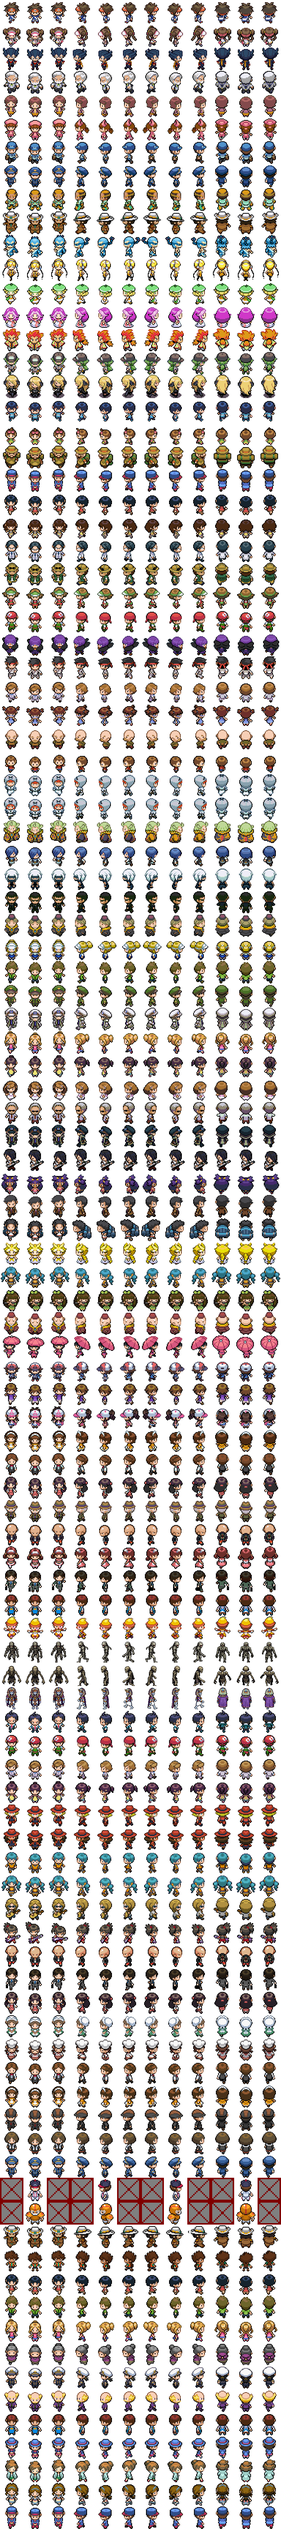
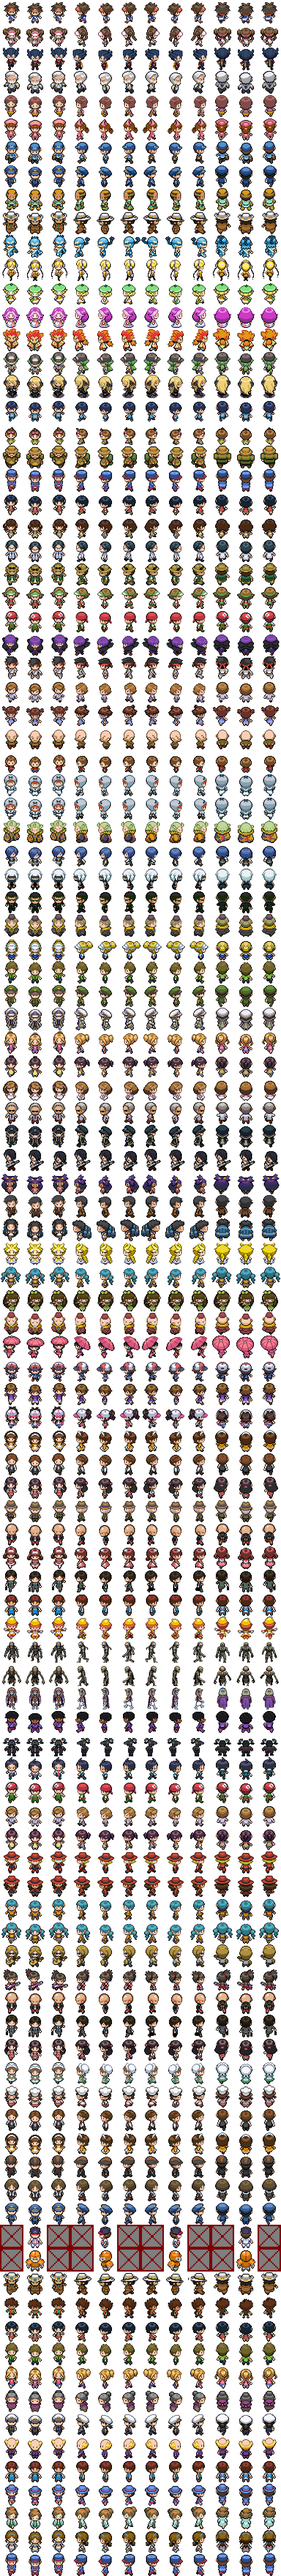
feat(odyssee): sprite sur mesure de Maitre Mamadou et mascotte bouc noir en veste en cuir du Dojo

diff --git a/odyssee/js/data/sprites.js b/odyssee/js/data/sprites.js
@@ -1,2 +1,2 @@
 // Généré par tools/odyssee-sprites.py — ne pas modifier à la main.
-export const SPRITES = {"crea":["capyousse","capyflore","capysaule","mechelet","ciroulet","lustrelle","narvi","narvalier","narvaillant","piouf","piouffon","plumorage","grignotin","ronchonnet","chouillon","hulumiere","larvoile","cocoreille","vitrailune","bourdonnet","champinou","champitron","cerfantome","noctaile","noctailor","galetin","rocrabe","cristaupe","bulotin","bulotide","croabulle","croamonde","crevitonne","gerbizz","gerboltz","ampoulet","tricotine","corolline","songebelle","revelaine","tisonnard","brasieraud","sombrecaille","nocturmine","frimousse","morsegivre","boulonnet","rouagant","draquelin","draconfle","cieldrake","odyssor","lutinelle","feerielle","pugnaton","poingtonnerre","spectrille","spectrelune","sablopode","dunosaure"],"chars":{"w":64,"h":64,"d":2,"rows":{"player_m":0,"player_f":1,"theo":2,"saule":3,"maman":4,"nurse":5,"vendeur":6,"garde":7,"hector":8,"basalte":9,"marine":10,"volta":11,"flora":12,"sibylle":13,"pyros":14,"drakos":15,"celestine":16,"gamin":17,"fillette":18,"montagnard":19,"marin":20,"topdresseur":21,"topdresseuse":22,"scientifique":23,"pecheur":24,"insectomane":25,"randonneuse":26,"medium":27,"karateka":28,"habitant":29,"habitante":30,"vieil_homme":31,"enfant":32,"brume":33,"brume_f":34,"sylas":35,"ariane":36,"nox":37,"voleur":38,"pretre":39,"kimono":40,"jardinier":41,"facteur":42,"capitaine":43,"lucie":44,"fillette2":45,"dame":46,"savant":47,"eclipse_m":48,"eclipse_f":49,"nyx":50,"erebe":51,"nocturne":52,"lumen":53,"frimas":54,"spectrel":55,"brutus":56,"ombrelle":57,"base_m":58,"pierre":59,"base_f":60,"margot":61,"aurele":62,"morgane":63,"gaspard":64,"ferdinand":65,"lilas":66,"corbin":67,"croupier":68,"copieur":69,"momie":70,"goule":71,"pharaon":72}},"portraits":["hector","basalte","marine","volta","flora","sibylle","pyros","drakos","celestine","saule","theo","gamin","fillette","montagnard","marin","topdresseur","topdresseuse","scientifique","pecheur","insectomane","randonneuse","medium","karateka","habitant","habitante"],"items":["secateur-sylvestre","harnais-flottant","sifflet-celeste","poke-ball","great-ball","ultra-ball","potion","super-potion","hyper-potion","max-potion","full-heal","revive","antidote","paralyze-heal","awakening","burn-heal","ice-heal","full-restore","escape-rope","repel","super-repel","max-repel","rare-candy","fire-stone","water-stone","thunder-stone","leaf-stone","moon-stone","sun-stone","oran-berry","ether","elixir","bag","dex","town-map","wallet","notebook","letter","gift"],"nature":{"tree":[47,48,2],"tree2":[47,48,2],"pine":[43,60,2],"snowpine":[43,61,2],"deadtree":[39,57,2],"palm":[49,56,2],"bush":[27,24,2],"rock":[30,28,2],"caverock":[32,29,2],"stalag":[26,44,2],"tuft":[32,40,2],"tuft1":[36,40,2],"darktuft":[32,40,2],"flowers_r":[27,26,2],"flowers_y":[27,26,2],"flowers_w":[27,26,2],"sign":[26,34,2],"fence":[64,48,2],"lamp":[14,48,2],"mailbox":[23,35,2],"pot":[18,32,2],"itemball":[15,15,2],"bang":[14,16],"statue":[26,43,2],"tree3":[47,48,2],"crackrock":[32,28,2],"cuttree":[15,32,2],"snowtuft":[32,40,2],"gymstatue":[46,82,2],"tuft0":[36,40,2],"tuft2":[36,40,2],"tuft3":[36,40,2],"darktuft0":[36,40,2],"darktuft1":[36,40,2],"darktuft2":[36,40,2],"darktuft3":[36,40,2],"snowtuft0":[36,40,2],"snowtuft1":[36,40,2],"snowtuft2":[36,40,2],"grassfront":[32,28,2],"grassfront2":[32,28,2],"darkfront":[32,28,2],"darkfront2":[32,28,2],"snowfront":[32,28,2],"snowfront2":[32,28,2],"fence_v":[24,104,2],"fence_v0":[24,104,2],"velo_s":[28,42,2],"velo_w":[38,30,2],"velo_e":[38,30,2],"velo_n":[24,37,2],"pic_terre_0":[32,29,1.6],"pic_terre_1":[32,29,1.6],"pic_terre_2":[31,31,1.6],"cone_terre_0":[15,24,1.5],"cone_terre_1":[16,24,1.5],"cone_terre_2":[16,24,1.5],"pic_montagne_0":[32,29,1.6],"pic_montagne_1":[32,29,1.6],"pic_montagne_2":[31,31,1.6],"cone_montagne_0":[15,24,1.5],"cone_montagne_1":[16,24,1.5],"cone_montagne_2":[16,24,1.5],"pic_mer_0":[32,29,1.6],"pic_mer_1":[32,29,1.6],"pic_mer_2":[31,31,1.6],"cone_mer_0":[15,24,1.5],"cone_mer_1":[16,24,1.5],"cone_mer_2":[16,24,1.5],"pic_magma_0":[32,29,1.6],"pic_magma_1":[32,29,1.6],"pic_magma_2":[31,31,1.6],"cone_magma_0":[15,24,1.5],"cone_magma_1":[16,24,1.5],"cone_magma_2":[16,24,1.5],"pic_glace_0":[32,29,1.6],"pic_glace_1":[32,29,1.6],"pic_glace_2":[31,31,1.6],"cone_glace_0":[15,24,1.5],"cone_glace_1":[16,24,1.5],"cone_glace_2":[16,24,1.5],"pic_lune_0":[32,29,1.6],"pic_lune_1":[32,29,1.6],"pic_lune_2":[31,31,1.6],"cone_lune_0":[15,24,1.5],"cone_lune_1":[16,24,1.5],"cone_lune_2":[16,24,1.5]},"mobilier":{"healer":[41,40,2],"pc":[35,39,2],"books":[34,40,2],"tv":[26,31,2],"bed":[26,39,2],"table":[24,28,2],"plant":[25,40,2],"gymstatue":[46,82,2],"shelf":[34,39,2],"counterseg":[34,23,2],"chair":[16,32,2],"sofa":[40,26,2],"fridge":[21,40,2],"kitchen":[40,27,2],"clock":[19,40,2],"painting":[25,22,2],"boxes":[33,30,2],"labmachine":[25,40,2],"startertable":[41,28,2],"bench":[39,22,2],"trash":[17,22,2],"vase":[16,25,2],"fireplace":[35,40,2],"rug":[37,18,2],"armoire":[40,60,2]},"sol":["grass0","grass1","grass2","grass3","tall0","tall1","forest0","forest1","path","sand","pave","ash0","ash1","snow0","snow1","cave","water0","water1","water2","water3","deep","flowerR","flowerY","flowerW","ledge","ledgeE","ledgeW","bridge","stairs","cavestairs","mat","matgreen","cliff","cliffplain","cavewall","cavetop","wall_in","wall_center","wall_mart","wall_gym","wall_league","walltop","floor_wood","floor_center","floor_mart","floor_lab","floor_league","counter","floor_gymBug","floor_gymRock","floor_gymWater","floor_gymElec","floor_gymGrass","floor_gymPsy","floor_gymFire","floor_gymDragon","counterfront","martfront","shelf","roof_flat","lava0","lava1","grass4","grass5","darktall0","darktall1","snowtall0","snowtall1"],"facades":["arene","base","boutique","centre","chalet","grotte","labo","ligue","maison","mirage","musee","pagode","pecheur","phare","port","dojo"],"natureV2":true,"dresseurs":["player_m","player_f","theo","garde","hector","basalte","marine","volta","flora","sibylle","pyros","drakos","celestine","vieil_homme","enfant","brume","brume_f","sylas","ariane","nox","voleur","pretre","kimono","brutus","ombrelle","spectrel","frimas","nocturne","eclipse_f","eclipse_m","erebe","nyx","margot","aurele","morgane","gaspard","ferdinand","lilas","corbin","copieur","momie","goule","pharaon","pierre"],"sol32":["snow0","snow1","snow2","snow3","ash0","ash1","gravel0","gravel1","path0","path1","sand0","sand1","water0","water1","water2","water3","pave0","pave1","grass0","grass1","deep0","deep1","lava0","lava1","grass2","flowerW","flowerR","field","forest0","forest1","leaves0","leaves1","cliffG","cliffG2","cliffGstairs","cliffG3","cliffR","cliffR2","cliffRstairs","cliffR3","cliffS","cliffS2","cliffSstairs","cliffS3","stairs","stairs2","bridgeEW","bridgeEW2","bridgeNS","bridgeNS2","dock0","dock1","dockEnd0","dockEnd1","floor_wood","floor_wood2","floor_beige","floor_pink","floor_pink2","floor_blue","floor_blue2","floor_round","floor_dark","floor_grate","floor_marble","floor_marble2","carpetL","carpet","carpetR","carpet2","floor_metal","floor_metal2","floor_grate2","floor_hazard","cave0","cave1","cavepuddle","ice","crystal","floor_white","floor_stone","floor_dark2","floor_glyph","floor_glyph2","floor_sand","tatami","ledge","ledgeW","ledgeE","ladder","hole","waterrock","whirl","crackrock"],"herbes":{"prairie":["a","b","bl","bot","br","c","in_ne","in_nw","in_se","in_sw","l","r","t","tl","tr"],"bois":["a","b","bl","bot","br","c","in_ne","in_nw","in_se","in_sw","l","r","t","tl","tr"],"neige":["a","b","bl","bot","br","c","in_ne","in_nw","in_se","in_sw","l","r","t","tl","tr"]},"hgss":{"mer":[16,8],"rivage":[32,8],"vague":[16,4],"fleur_r":[16,4],"fleur_y":[16,4],"fleur_b":[16,4],"fleur_p":[16,4],"fleur_o":[16,3],"fleur_w":[16,3],"rocher_mer":[32,6]},"deco":{"arbre_automne":[24,29,1],"banc":[24,17,1],"bateau":[48,20,1],"borne":[12,14,1],"bouee":[12,10,1],"brasero":[14,30,1],"butte":[16,13,1],"caisse":[14,17,1],"caisses":[16,29,1],"cerisier":[24,32,1],"cloche":[32,30,1],"colonne":[12,41,1],"console":[32,28,1],"corde":[16,11,1],"coussin":[16,14,1],"cristal":[16,28,1],"cuve":[16,37,1],"ecran_carte":[32,27,1],"erable":[24,31,1],"fontaine":[40,31,1],"fossile":[32,25,1],"gargouille":[12,27,1],"lampe_phare":[24,32,1],"lanterne":[12,25,1],"livres":[16,20,1],"machine_labo":[32,34,1],"panneau_bois":[16,15,1],"parasol":[24,25,1],"pilier_ball":[12,32,1],"rocher_grand":[20,19,1],"sanctuaire":[32,37,1],"squelette":[64,31,1],"statue_dragon":[20,39,1],"stele":[12,27,1],"table_balls":[32,19,1],"telescope":[16,26,1],"tonneau":[12,16,1],"torii":[48,38,1],"trone":[32,39,1]},"carte":["arbre_o","arbre_v","arbres_o","remous","puits","grotte","grotte_p","grotte_m","cascade","colline","montagne"],"suiveurs":{"w":64,"h":64,"d":2,"rows":{"1":0,"2":1,"3":2,"4":3,"5":4,"6":5,"7":6,"8":7,"9":8,"152":9,"153":10,"154":11,"155":12,"156":13,"157":14,"158":15,"159":16,"160":17,"25":18,"133":19,"74":20,"66":21,"54":22,"16":23,"19":24,"10":25,"143":26,"37":27,"43":28,"50":29,"52":30,"60":31,"1001":32,"1002":33,"1003":34,"1004":35,"1005":36,"1006":37,"1007":38,"1008":39,"1009":40}}};
+export const SPRITES = {"crea":["capyousse","capyflore","capysaule","mechelet","ciroulet","lustrelle","narvi","narvalier","narvaillant","piouf","piouffon","plumorage","grignotin","ronchonnet","chouillon","hulumiere","larvoile","cocoreille","vitrailune","bourdonnet","champinou","champitron","cerfantome","noctaile","noctailor","galetin","rocrabe","cristaupe","bulotin","bulotide","croabulle","croamonde","crevitonne","gerbizz","gerboltz","ampoulet","tricotine","corolline","songebelle","revelaine","tisonnard","brasieraud","sombrecaille","nocturmine","frimousse","morsegivre","boulonnet","rouagant","draquelin","draconfle","cieldrake","odyssor","lutinelle","feerielle","pugnaton","poingtonnerre","spectrille","spectrelune","sablopode","dunosaure"],"chars":{"w":64,"h":64,"d":2,"rows":{"player_m":0,"player_f":1,"theo":2,"saule":3,"maman":4,"nurse":5,"vendeur":6,"garde":7,"hector":8,"basalte":9,"marine":10,"volta":11,"flora":12,"sibylle":13,"pyros":14,"drakos":15,"celestine":16,"gamin":17,"fillette":18,"montagnard":19,"marin":20,"topdresseur":21,"topdresseuse":22,"scientifique":23,"pecheur":24,"insectomane":25,"randonneuse":26,"medium":27,"karateka":28,"habitant":29,"habitante":30,"vieil_homme":31,"enfant":32,"brume":33,"brume_f":34,"sylas":35,"ariane":36,"nox":37,"voleur":38,"pretre":39,"kimono":40,"jardinier":41,"facteur":42,"capitaine":43,"lucie":44,"fillette2":45,"dame":46,"savant":47,"eclipse_m":48,"eclipse_f":49,"nyx":50,"erebe":51,"nocturne":52,"lumen":53,"frimas":54,"spectrel":55,"brutus":56,"ombrelle":57,"base_m":58,"pierre":59,"base_f":60,"margot":61,"aurele":62,"morgane":63,"gaspard":64,"ferdinand":65,"lilas":66,"corbin":67,"croupier":68,"copieur":69,"momie":70,"goule":71,"pharaon":72,"mamadou":73,"bouc":74}},"portraits":["hector","basalte","marine","volta","flora","sibylle","pyros","drakos","celestine","saule","theo","gamin","fillette","montagnard","marin","topdresseur","topdresseuse","scientifique","pecheur","insectomane","randonneuse","medium","karateka","habitant","habitante"],"items":["secateur-sylvestre","harnais-flottant","sifflet-celeste","poke-ball","great-ball","ultra-ball","potion","super-potion","hyper-potion","max-potion","full-heal","revive","antidote","paralyze-heal","awakening","burn-heal","ice-heal","full-restore","escape-rope","repel","super-repel","max-repel","rare-candy","fire-stone","water-stone","thunder-stone","leaf-stone","moon-stone","sun-stone","oran-berry","ether","elixir","bag","dex","town-map","wallet","notebook","letter","gift"],"nature":{"tree":[47,48,2],"tree2":[47,48,2],"pine":[43,60,2],"snowpine":[43,61,2],"deadtree":[39,57,2],"palm":[49,56,2],"bush":[27,24,2],"rock":[30,28,2],"caverock":[32,29,2],"stalag":[26,44,2],"tuft":[32,40,2],"tuft1":[36,40,2],"darktuft":[32,40,2],"flowers_r":[27,26,2],"flowers_y":[27,26,2],"flowers_w":[27,26,2],"sign":[26,34,2],"fence":[64,48,2],"lamp":[14,48,2],"mailbox":[23,35,2],"pot":[18,32,2],"itemball":[15,15,2],"bang":[14,16],"statue":[26,43,2],"tree3":[47,48,2],"crackrock":[32,28,2],"cuttree":[15,32,2],"snowtuft":[32,40,2],"gymstatue":[46,82,2],"tuft0":[36,40,2],"tuft2":[36,40,2],"tuft3":[36,40,2],"darktuft0":[36,40,2],"darktuft1":[36,40,2],"darktuft2":[36,40,2],"darktuft3":[36,40,2],"snowtuft0":[36,40,2],"snowtuft1":[36,40,2],"snowtuft2":[36,40,2],"grassfront":[32,28,2],"grassfront2":[32,28,2],"darkfront":[32,28,2],"darkfront2":[32,28,2],"snowfront":[32,28,2],"snowfront2":[32,28,2],"fence_v":[24,104,2],"fence_v0":[24,104,2],"velo_s":[28,42,2],"velo_w":[38,30,2],"velo_e":[38,30,2],"velo_n":[24,37,2],"pic_terre_0":[32,29,1.6],"pic_terre_1":[32,29,1.6],"pic_terre_2":[31,31,1.6],"cone_terre_0":[15,24,1.5],"cone_terre_1":[16,24,1.5],"cone_terre_2":[16,24,1.5],"pic_montagne_0":[32,29,1.6],"pic_montagne_1":[32,29,1.6],"pic_montagne_2":[31,31,1.6],"cone_montagne_0":[15,24,1.5],"cone_montagne_1":[16,24,1.5],"cone_montagne_2":[16,24,1.5],"pic_mer_0":[32,29,1.6],"pic_mer_1":[32,29,1.6],"pic_mer_2":[31,31,1.6],"cone_mer_0":[15,24,1.5],"cone_mer_1":[16,24,1.5],"cone_mer_2":[16,24,1.5],"pic_magma_0":[32,29,1.6],"pic_magma_1":[32,29,1.6],"pic_magma_2":[31,31,1.6],"cone_magma_0":[15,24,1.5],"cone_magma_1":[16,24,1.5],"cone_magma_2":[16,24,1.5],"pic_glace_0":[32,29,1.6],"pic_glace_1":[32,29,1.6],"pic_glace_2":[31,31,1.6],"cone_glace_0":[15,24,1.5],"cone_glace_1":[16,24,1.5],"cone_glace_2":[16,24,1.5],"pic_lune_0":[32,29,1.6],"pic_lune_1":[32,29,1.6],"pic_lune_2":[31,31,1.6],"cone_lune_0":[15,24,1.5],"cone_lune_1":[16,24,1.5],"cone_lune_2":[16,24,1.5]},"mobilier":{"healer":[41,40,2],"pc":[35,39,2],"books":[34,40,2],"tv":[26,31,2],"bed":[26,39,2],"table":[24,28,2],"plant":[25,40,2],"gymstatue":[46,82,2],"shelf":[34,39,2],"counterseg":[34,23,2],"chair":[16,32,2],"sofa":[40,26,2],"fridge":[21,40,2],"kitchen":[40,27,2],"clock":[19,40,2],"painting":[25,22,2],"boxes":[33,30,2],"labmachine":[25,40,2],"startertable":[41,28,2],"bench":[39,22,2],"trash":[17,22,2],"vase":[16,25,2],"fireplace":[35,40,2],"rug":[37,18,2],"armoire":[40,60,2]},"sol":["grass0","grass1","grass2","grass3","tall0","tall1","forest0","forest1","path","sand","pave","ash0","ash1","snow0","snow1","cave","water0","water1","water2","water3","deep","flowerR","flowerY","flowerW","ledge","ledgeE","ledgeW","bridge","stairs","cavestairs","mat","matgreen","cliff","cliffplain","cavewall","cavetop","wall_in","wall_center","wall_mart","wall_gym","wall_league","walltop","floor_wood","floor_center","floor_mart","floor_lab","floor_league","counter","floor_gymBug","floor_gymRock","floor_gymWater","floor_gymElec","floor_gymGrass","floor_gymPsy","floor_gymFire","floor_gymDragon","counterfront","martfront","shelf","roof_flat","lava0","lava1","grass4","grass5","darktall0","darktall1","snowtall0","snowtall1"],"facades":["arene","base","boutique","centre","chalet","grotte","labo","ligue","maison","mirage","musee","pagode","pecheur","phare","port","dojo"],"natureV2":true,"dresseurs":["player_m","player_f","theo","garde","hector","basalte","marine","volta","flora","sibylle","pyros","drakos","celestine","vieil_homme","enfant","brume","brume_f","sylas","ariane","nox","voleur","pretre","kimono","brutus","ombrelle","spectrel","frimas","nocturne","eclipse_f","eclipse_m","erebe","nyx","margot","aurele","morgane","gaspard","ferdinand","lilas","corbin","copieur","momie","goule","pharaon","pierre","mamadou","bouc"],"sol32":["snow0","snow1","snow2","snow3","ash0","ash1","gravel0","gravel1","path0","path1","sand0","sand1","water0","water1","water2","water3","pave0","pave1","grass0","grass1","deep0","deep1","lava0","lava1","grass2","flowerW","flowerR","field","forest0","forest1","leaves0","leaves1","cliffG","cliffG2","cliffGstairs","cliffG3","cliffR","cliffR2","cliffRstairs","cliffR3","cliffS","cliffS2","cliffSstairs","cliffS3","stairs","stairs2","bridgeEW","bridgeEW2","bridgeNS","bridgeNS2","dock0","dock1","dockEnd0","dockEnd1","floor_wood","floor_wood2","floor_beige","floor_pink","floor_pink2","floor_blue","floor_blue2","floor_round","floor_dark","floor_grate","floor_marble","floor_marble2","carpetL","carpet","carpetR","carpet2","floor_metal","floor_metal2","floor_grate2","floor_hazard","cave0","cave1","cavepuddle","ice","crystal","floor_white","floor_stone","floor_dark2","floor_glyph","floor_glyph2","floor_sand","tatami","ledge","ledgeW","ledgeE","ladder","hole","waterrock","whirl","crackrock"],"herbes":{"prairie":["a","b","bl","bot","br","c","in_ne","in_nw","in_se","in_sw","l","r","t","tl","tr"],"bois":["a","b","bl","bot","br","c","in_ne","in_nw","in_se","in_sw","l","r","t","tl","tr"],"neige":["a","b","bl","bot","br","c","in_ne","in_nw","in_se","in_sw","l","r","t","tl","tr"]},"hgss":{"mer":[16,8],"rivage":[32,8],"vague":[16,4],"fleur_r":[16,4],"fleur_y":[16,4],"fleur_b":[16,4],"fleur_p":[16,4],"fleur_o":[16,3],"fleur_w":[16,3],"rocher_mer":[32,6]},"deco":{"arbre_automne":[24,29,1],"banc":[24,17,1],"bateau":[48,20,1],"borne":[12,14,1],"bouee":[12,10,1],"brasero":[14,30,1],"butte":[16,13,1],"caisse":[14,17,1],"caisses":[16,29,1],"cerisier":[24,32,1],"cloche":[32,30,1],"colonne":[12,41,1],"console":[32,28,1],"corde":[16,11,1],"coussin":[16,14,1],"cristal":[16,28,1],"cuve":[16,37,1],"ecran_carte":[32,27,1],"erable":[24,31,1],"fontaine":[40,31,1],"fossile":[32,25,1],"gargouille":[12,27,1],"lampe_phare":[24,32,1],"lanterne":[12,25,1],"livres":[16,20,1],"machine_labo":[32,34,1],"panneau_bois":[16,15,1],"parasol":[24,25,1],"pilier_ball":[12,32,1],"rocher_grand":[20,19,1],"sanctuaire":[32,37,1],"squelette":[64,31,1],"statue_dragon":[20,39,1],"stele":[12,27,1],"table_balls":[32,19,1],"telescope":[16,26,1],"tonneau":[12,16,1],"torii":[48,38,1],"trone":[32,39,1]},"carte":["arbre_o","arbre_v","arbres_o","remous","puits","grotte","grotte_p","grotte_m","cascade","colline","montagne"],"suiveurs":{"w":64,"h":64,"d":2,"rows":{"1":0,"2":1,"3":2,"4":3,"5":4,"6":5,"7":6,"8":7,"9":8,"152":9,"153":10,"154":11,"155":12,"156":13,"157":14,"158":15,"159":16,"160":17,"25":18,"133":19,"74":20,"66":21,"54":22,"16":23,"19":24,"10":25,"143":26,"37":27,"43":28,"50":29,"52":30,"60":31,"1001":32,"1002":33,"1003":34,"1004":35,"1005":36,"1006":37,"1007":38,"1008":39,"1009":40}}};

diff --git a/odyssee/js/data/gfx-noirblanc.js b/odyssee/js/data/gfx-noirblanc.js
@@ -4,5 +4,5 @@ export const NB_COLS = 32;
 export const NB_DECOR = ["arbre_automne", "armoire", "automne0", "automne1", "automne2", "automne3", "automne4", "automne5", "banc", "barriere", "barriere_fin", "barriere_v", "barriere_v0", "bateau", "bed", "bench", "books", "borne", "bouee", "boxes", "brasero", "buisson_rose", "bush", "butte", "cactus", "cactus2", "caisse", "caisses", "caverock", "cerisier", "cloche", "clock", "colonne", "cristal", "cuttree", "darkfront", "darkfront2", "deadtree", "erable", "etai", "fence", "fontaine", "fossile", "fridge", "gargouille", "grassfront", "grassfront2", "gymstatue", "healer", "kitchen", "labmachine", "lamp", "lampe_mine", "lanterne", "mailbox", "minerai", "painting", "palm", "parasol", "pc", "pine", "plant", "pot", "poteau", "rocher_grand", "rocher_sable", "rock", "roseaux", "sign", "snowfront", "snowfront2", "snowpine", "sofa", "squelette", "stalag", "statue", "statue_dragon", "stele", "table", "telescope", "tonneau", "torii", "tree", "tree2", "tree3", "tv", "vase", "wagonnet"];
 // bâtiments : nom → [largeur réelle en px, colonne du milieu de la porte (ou null)]
 export const NB_BATIMENTS = {"centre": [200, 100], "boutique": [150, 116], "boutique_p": [148, 57], "arene": [284, 142], "labo": [188, 94], "tour": [116, null], "maison_bleue": [154, 48], "maison_orange": [250, 134], "maison_brique": [192, 94], "maison_a": [154, 79], "maison_a_g": [154, 48], "maison_b": [200, 99], "maison_c": [176, 71], "boutique_b": [150, 75], "maison_d": [150, 75], "maison_e": [200, 74], "maison_f": [162, 48], "maison_g": [148, 48], "manoir": [184, 92], "manoir_r": [184, 92], "maison_ville_rg": [176, 88], "fontaine": [96, null], "maison_verte": [154, 48], "maison_rouge": [154, 48], "maison_jaune": [154, 48], "maison_a_bl": [154, 79], "maison_a_g_bl": [154, 48], "maison_f_bleue": [162, 48], "maison_g_ocre": [148, 48], "maison_brique_r": [192, 94], "maison_c_ve": [176, 71], "maison_e_bl": [200, 74], "maison_ville_bl": [176, 88], "maison_ville_ve": [176, 88], "manoir_v": [184, 92], "boutique_neige_b": [150, 75], "atelier_brique": [208, 105], "casino": [416, 208], "tour_brique": [208, null], "tour_vitre": [224, null], "mairie": [250, 125], "gare": [256, 128], "tour_jaune": [238, null], "maison_forge_1": [176, 88], "maison_forge_2": [176, 88], "fonderie": [176, 88], "fonderie_b": [176, 88], "bourse": [358, 179], "centre_neige": [200, 100], "centre_mirage": [205, 99], "maison_desert_1": [134, 67], "chapelle": [144, 72], "centre_desert": [218, 109], "maison_desert_3": [166, 83], "serre": [154, null], "boutique_desert": [150, 116], "boutique_neige": [150, 116], "manoir_neige": [184, 92], "manoir_ombre": [184, 92], "centrale": [131, 64], "maison_mirage_2": [160, 62], "maison_neige_bl": [154, 48], "maison_neige_rg": [154, 48], "maison_ombre_2": [154, 48], "maison_neige_b": [200, 99], "maison_desert_4": [134, 67], "maison_desert_2": [141, 56], "maison_ombre": [192, 94], "maison_hiver": [154, 77], "maison_mirage_1": [139, 54], "dojo": [192, 96], "etal": [64, null], "puits": [64, null], "chalet": [160, 48], "auberge": [192, 96], "maison_l": [160, 80], "maison_ext": [224, 48], "boulangerie": [154, 48], "maison_the": [160, 80], "cabane_chasseur": [128, null], "cabane_pecheur": [160, null], "grange": [192, null], "moulin": [128, null], "phare": [96, null], "kiosque": [128, null], "tour_mirage": [128, 48], "usine_pokeball": [1024, 512], "ligue": [960, 480], "pagode": [352, 176], "tour_cendree": [352, 176], "pavillon": [256, 128]};
-export const NB_CHAR_ROWS = {"nb_cheren": 73, "nb_ranger": 74, "nb_clerk": 75, "nb_violette": 76, "nb_cowboy": 77, "nb_cowgirl": 78, "nb_tate": 79, "nb_liza": 80, "nb_musicien": 81, "nb_rockeuse": 82, "nb_colosse": 83, "nb_costard": 84, "nb_secretaire": 85, "nb_servante": 86, "nb_boulanger": 87, "nb_preppy": 88, "nb_cafe": 89, "nb_agent": 90, "nb_majordome": 91, "nb_policier": 92, "nb_sportif": 93, "nb_linebacker": 94, "nb_sheriff": 95, "nb_voyageur_n": 96, "nb_garcon_r": 97, "nb_vert": 98, "nb_demoiselle": 99, "nb_grandmere": 100, "nb_amiral": 101, "nb_sage": 102, "nb_fermier": 103, "nb_citadine": 104, "nb_vet": 105, "nb_tablier": 106, "nb_guichet": 107};
+export const NB_CHAR_ROWS = {"nb_cheren": 75, "nb_ranger": 76, "nb_clerk": 77, "nb_violette": 78, "nb_cowboy": 79, "nb_cowgirl": 80, "nb_tate": 81, "nb_liza": 82, "nb_musicien": 83, "nb_rockeuse": 84, "nb_colosse": 85, "nb_costard": 86, "nb_secretaire": 87, "nb_servante": 88, "nb_boulanger": 89, "nb_preppy": 90, "nb_cafe": 91, "nb_agent": 92, "nb_majordome": 93, "nb_policier": 94, "nb_sportif": 95, "nb_linebacker": 96, "nb_sheriff": 97, "nb_voyageur_n": 98, "nb_garcon_r": 99, "nb_vert": 100, "nb_demoiselle": 101, "nb_grandmere": 102, "nb_amiral": 103, "nb_sage": 104, "nb_fermier": 105, "nb_citadine": 106, "nb_vet": 107, "nb_tablier": 108, "nb_guichet": 109};
 export const NB_CHAR_VARIANTS = {"habitant": ["habitant", "nb_cheren", "nb_voyageur_n", "nb_costard", "nb_fermier", "nb_boulanger", "nb_clerk", "nb_preppy", "nb_sportif", "nb_musicien", "nb_majordome"], "habitante": ["habitante", "nb_citadine", "nb_secretaire", "nb_servante", "nb_cafe", "nb_tablier", "nb_rockeuse", "nb_demoiselle", "nb_violette"], "gamin": ["gamin", "nb_tate", "nb_garcon_r", "nb_vert"], "fillette": ["fillette", "nb_liza"], "vieil_homme": ["vieil_homme", "nb_sage"], "dame": ["dame", "nb_grandmere", "nb_citadine", "nb_secretaire"], "topdresseur": ["topdresseur", "nb_ranger", "nb_voyageur_n", "nb_sportif", "nb_colosse"], "topdresseuse": ["topdresseuse", "nb_cowgirl", "nb_rockeuse", "nb_liza"], "montagnard": ["montagnard", "nb_cowboy", "nb_sheriff", "nb_linebacker"], "randonneuse": ["randonneuse", "nb_cowgirl", "nb_vet"], "scientifique": ["scientifique", "nb_vet", "nb_clerk"], "jardinier": ["jardinier", "nb_fermier", "nb_vert"], "garde": ["garde", "nb_policier", "nb_agent"], "vendeur": ["vendeur", "nb_guichet", "nb_clerk", "nb_boulanger"], "marin": ["marin", "nb_amiral"], "karateka": ["karateka", "nb_linebacker", "nb_colosse"], "voleur": ["voleur", "nb_agent", "nb_colosse"]};

diff --git a/odyssee/js/dojo-mamadou.js b/odyssee/js/dojo-mamadou.js
@@ -138,8 +138,8 @@ export const DOJO_ARCHETYPES = [
     id: 'mamadou',
     cls: 'Maître du Dojo',
     name: 'Mamadou',
-    ow: 'karateka',
-    bs: 'karateka',
+    ow: 'mamadou',
+    bs: 'mamadou',
     intro: 'Vous avez atteint le sommet de mon Dojo ! Montrez-moi l\'harmonie parfaite entre vos Pokémon et votre escouade !',
     lose: 'Magnifique ! Vous avez compris la vraie voie du combat en équipe !',
     team: [
@@ -592,7 +592,7 @@ async function runDojoSeries(game, { rid, format, rosters, mySlot, hostId, peerI
   const ui = game.ui, link = game.link, st = game.state, D = ensureDojo(st);
   const slots = format === 'triple' ? 3 : 2;
   const isHost = mySlot === 0;
-  const who = { speaker: 'Maître Mamadou', face: 'karateka' };
+  const who = { speaker: 'Maître Mamadou', face: 'mamadou' };
   const playerMega = rosters.some((r) => !!r.hasMega);
   const rosterMega = rosters.map((r) => !!r.hasMega);
   const ownerNames = rosters.map((r) => String(r.name || 'Dresseur').slice(0, 12));
@@ -629,7 +629,7 @@ async function runDojoSeries(game, { rid, format, rosters, mySlot, hostId, peerI
         title: 'MAÎTRE MAMADOU',
         sub: 'Finale du Dojo · Harmonie Suprême',
         badge: 'FINALE DU DOJO · PALIER 5/5',
-        bs: 'karateka',
+        bs: 'mamadou',
         trainer: foeChallenge.trainer,
         duration: 6.0,
       });
@@ -702,11 +702,31 @@ async function runDojoSeries(game, { rid, format, rosters, mySlot, hostId, peerI
 }
 
 /* ======================================================================
+   Mascotte du Dojo : Bouc noir en veste en cuir (script 'dojoMascotte')
+   ====================================================================== */
+export async function dojoMascotte(game, n) {
+  const st = game.state, ui = game.ui, D = ensureDojo(st);
+  const who = { speaker: 'Mascotte du Dojo', face: n?.sprite || 'bouc' };
+  const tips = [
+    'Astuce du Bouc : associe Lévitation ou le type Vol à Séisme pour balayer l\'équipe adverse sans toucher ton coéquipier !',
+    'Astuce du Bouc : Abri au bon tour ruine les double-focus et laisse ton allié placer un boost ou briser le camp d\'en face.',
+    'Astuce du Bouc : Maître Mamadou garde un Méga-Lucario redoutable au 5e palier… garde ta Méga-Évolution ou une attaque de priorité !',
+  ];
+  const tip = tips[(D.wins + D.pdj) % tips.length];
+  await ui.say([
+    'Bêêêh ! Je suis la mascotte du Dojo de Mamadou ! Cette veste en cuir me donne au moins +100 de charisme sur le tatami, non ?',
+    D.wins > 0
+      ? `Bravo pour ${D.wins > 1 ? `tes ${D.wins} victoires` : 'ta victoire'} au Dojo ! ${tip}`
+      : tip,
+  ], who);
+}
+
+/* ======================================================================
    PNJ Principal : Maître Mamadou (script 'dojoMamadou')
    ====================================================================== */
 export async function dojoMamadou(game, n) {
   const st = game.state, ui = game.ui, D = ensureDojo(st);
-  const who = { speaker: 'Maître Mamadou', face: n?.sprite || 'karateka' };
+  const who = { speaker: 'Maître Mamadou', face: n?.sprite || 'mamadou' };
   await ui.say([
     `Bienvenue dans mon Dojo, ${st.name} ! Ici, la stratégie collective prime sur la force brute.`,
     `Tu as ${D.pdj} Point${D.pdj > 1 ? 's' : ''} du Dojo (PDj). Records — Duo 2v2 : ${D.record2} · Trio 3v3 : ${D.record3}.`,
@@ -743,7 +763,7 @@ export async function dojoMamadou(game, n) {
 /** Lance un défi Co-op du Dojo (Duo 2v2 ou Trio 3v3) depuis Maître Mamadou ou le C-Gear */
 export async function lancerDefiDojoCoop(game, n = null) {
   const st = game.state, ui = game.ui;
-  const who = { speaker: 'Maître Mamadou', face: n?.sprite || 'karateka' };
+  const who = { speaker: 'Maître Mamadou', face: n?.sprite || 'mamadou' };
 
   if (game.badgeCount() < 5) {
     await ui.say('Le Dojo accueille uniquement les dresseurs confirmés à partir du 6e Badge (au moins 5 badges en main) !', who);
@@ -908,7 +928,7 @@ export async function onDojoInvite(game, from, m) {
     link.send(from, { t: 'dojo-rep', rid: m.rid, ok: yes, why: yes ? null : 'no', lvl: myMaxLvl });
     if (!yes) return;
 
-    const myMons = await pickDojoPair(game, { speaker: 'Maître Mamadou', face: 'karateka' });
+    const myMons = await pickDojoPair(game, { speaker: 'Maître Mamadou', face: 'mamadou' });
     if (!myMons) {
       link.send(from, { t: 'dojo', rid: m.rid, step: 'quit', who: st.name });
       return;

diff --git a/odyssee/js/game.js b/odyssee/js/game.js
@@ -42,7 +42,7 @@ import { composer, tenueValide, tenueOrigine } from './render/tenue.js';
 import { buildRivalParty, getRivalItems } from './world/rival.js';
 import { Vie, parlerFaune, rentreLeSoir } from './vie.js';
 import { revancheBossPossible, revancheBoss, tourCombat, clubCombat } from './tour-combat.js';
-import { dojoMamadou, dojoBoutique } from './dojo-mamadou.js';
+import { dojoMamadou, dojoBoutique, dojoMascotte } from './dojo-mamadou.js';
 import { VieMonde, colporteur, marche, cueillir, fouiller, revanchePossible, revanche, noteCombat, ragot, echange, relais, concours, loterie, musicien } from './vie-monde.js';
 
 /** météos qui comptent en combat (brume et cendres ne sont que du décor, comme dans les jeux 5G) */
@@ -89,6 +89,8 @@ const FACES = {
   'Nyx': 'nyx', 'Érèbe': 'erebe', 'Erebe': 'erebe', 'Nocturne': 'nocturne',
   'Frimas': 'frimas', 'Spectrel': 'spectrel', 'Brutus': 'brutus', 'Sylas': 'sylas',
   'Ariane': 'ariane', 'Nox': 'nox', 'Sbire': 'brume_f', 'Sbire de la Brume': 'brume', 'Sbire Éclipse': 'eclipse_m',
+  'Mamadou': 'mamadou', 'Maître Mamadou': 'mamadou',
+  'Mascotte du Dojo': 'bouc', 'Le Bouc du Dojo': 'bouc', 'Bouc': 'bouc',
 };
 
 const TRAINER_NAME_TO_SPRITE = {
@@ -2535,6 +2537,7 @@ export class Game {
     if (name === 'clubCombat') return clubCombat(this, n);
     if (name === 'dojoMamadou') return dojoMamadou(this, n);
     if (name === 'dojoBoutique') return dojoBoutique(this, n);
+    if (name === 'dojoMascotte') return dojoMascotte(this, n);
     if (name === 'marche') return marche(this, n);
     if (name === 'echange') return echange(this, n);
     if (name === 'relais') return relais(this, n);

diff --git a/odyssee/js/world/interiors.js b/odyssee/js/world/interiors.js
@@ -97,11 +97,12 @@ export function dojoInterior(id, name = 'Dojo de Mamadou') {
   for (let y = 4; y < 14; y++) for (const x of [6, 7, 8]) m.deco.push({ k: 'carpet', x, y });
   furn(m, 'statue_dragon', 3, 4); furn(m, 'statue_dragon', 11, 4);
   for (const y of [8, 12]) { furn(m, 'statue', 3, y); furn(m, 'statue', 11, y); }
-  for (const [x, y] of [[5, 3], [9, 3], [5, 13], [9, 13]]) furn(m, 'brasero', x, y);
+  for (const [x, y] of [[4, 3], [10, 3], [5, 13], [9, 13]]) furn(m, 'brasero', x, y);
   furn(m, 'pot', 1, 13); furn(m, 'pot', 13, 13);
   furn(m, 'healer', 1, 2);
   furn(m, 'pc', 13, 2); m.object(13, 2, { type: 'pc' });
-  m.npc({ id: id + ':mamadou', x: 7, y: 3, dir: 'down', sprite: 'karateka', script: 'dojoMamadou' });
+  m.npc({ id: id + ':mamadou', x: 7, y: 3, dir: 'down', sprite: 'mamadou', script: 'dojoMamadou' });
+  m.npc({ id: id + ':mascotte', x: 9, y: 3, dir: 'down', sprite: 'bouc', script: 'dojoMascotte' });
   m.npc({ id: id + ':intendant', x: 11, y: 6, dir: 'left', sprite: 'vendeur', script: 'dojoBoutique' });
   m.npc({ id: id + ':infirmiere', x: 1, y: 4, dir: 'down', sprite: 'nurse', role: 'nurse' });
   m.npc({

diff --git a/odyssee/js/gfx.js b/odyssee/js/gfx.js
@@ -46,7 +46,7 @@ export const PACKS = {
       mart: { fond: '#eef4fa', motif: '#dce8f6', motifK: 'carreaux', bande: '#3b82d6', bandeS: '#2258a4', lam: '#d2e2f2', lamC: '#f2f7fc', lamS: '#8fb2d8', cim: '#ffffff', pl: '#244e8c', cap: '#1e3e72', capC: '#78b0ec' },
     },
     chars: 'chars',           // planche des personnages de Noir & Blanc 2 (même disposition que celle du jeu)
-    charRows: NB_CHAR_ROWS,   // rangées supplémentaires (au-delà des 73 de base) propres au pack Noir & Blanc
+    charRows: NB_CHAR_ROWS,   // rangées supplémentaires (au-delà des 75 de base) propres au pack Noir & Blanc
     charVariants: NB_CHAR_VARIANTS,
     // bâtiments entiers (b_<nom>.png) par style du jeu : le jeu prend celui dont la largeur colle à l'emprise (+ filtre biome)
     batiments: (() => {
